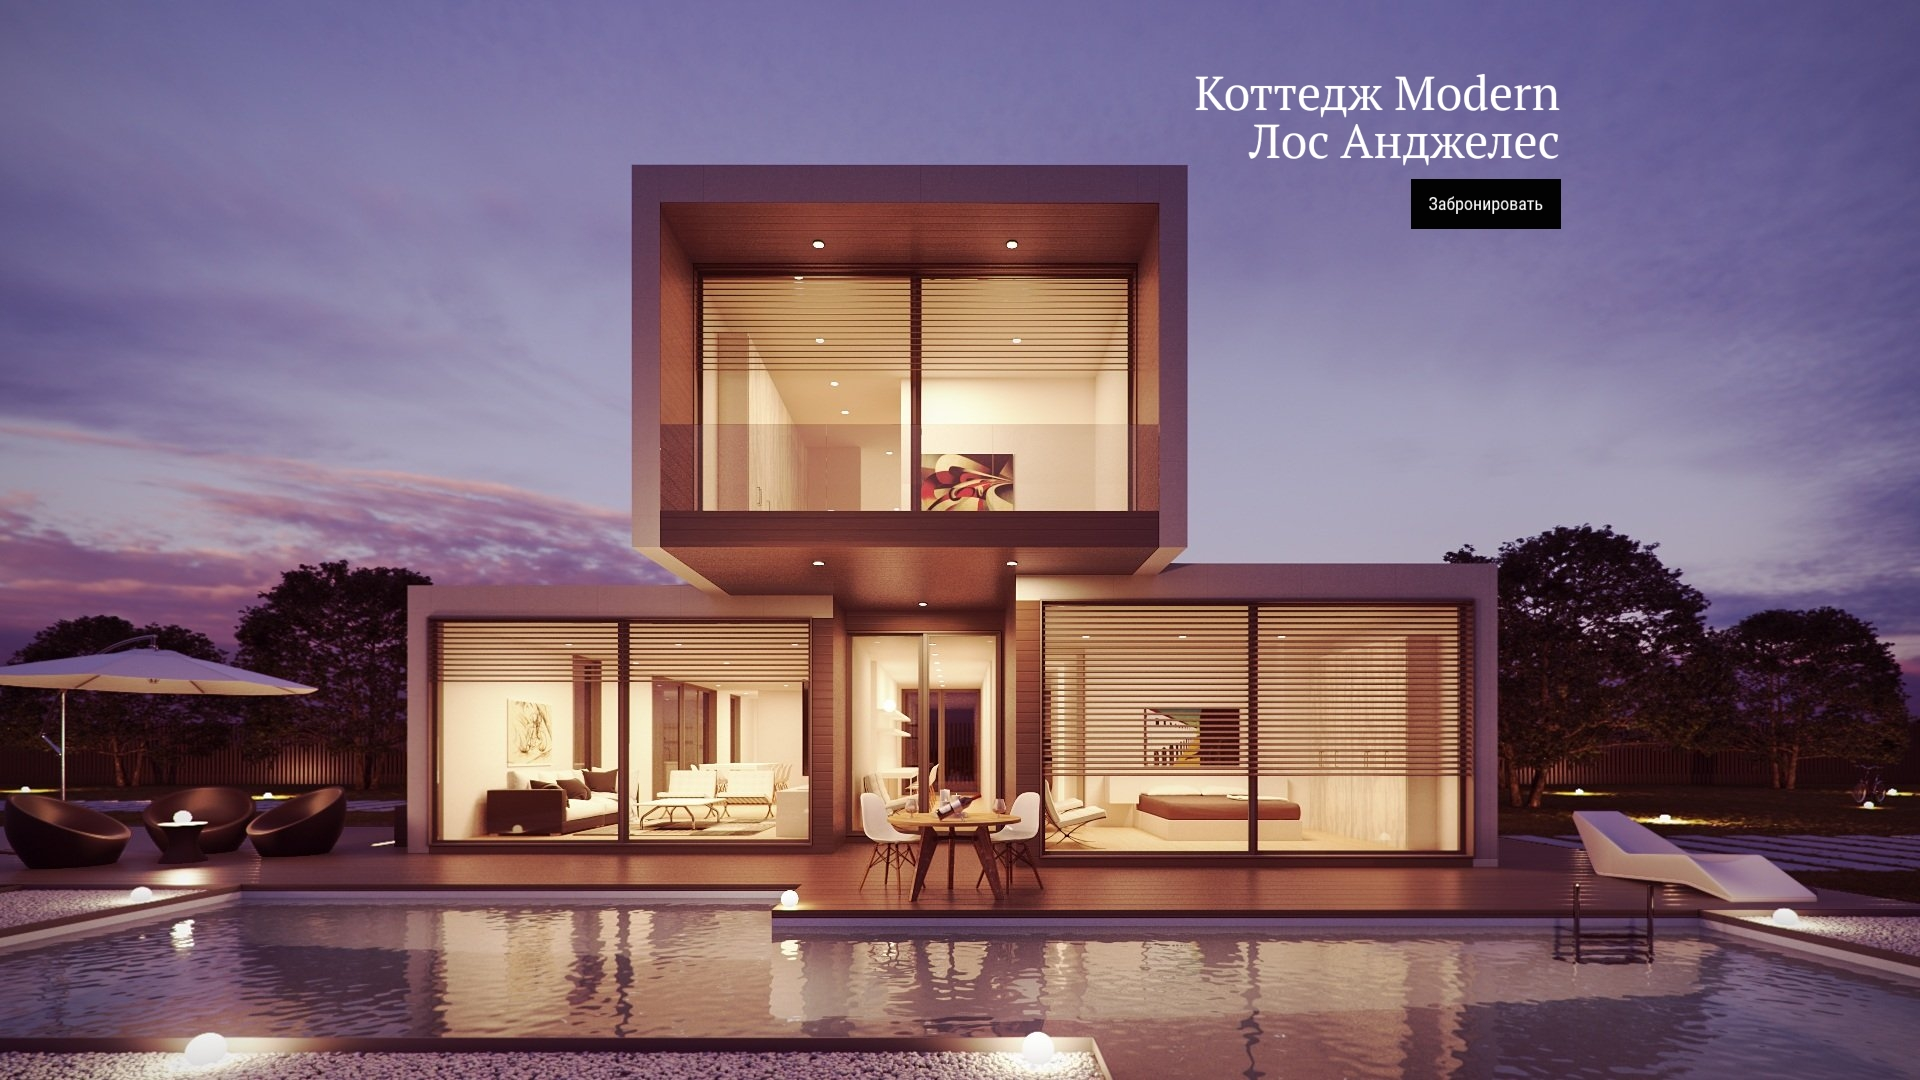
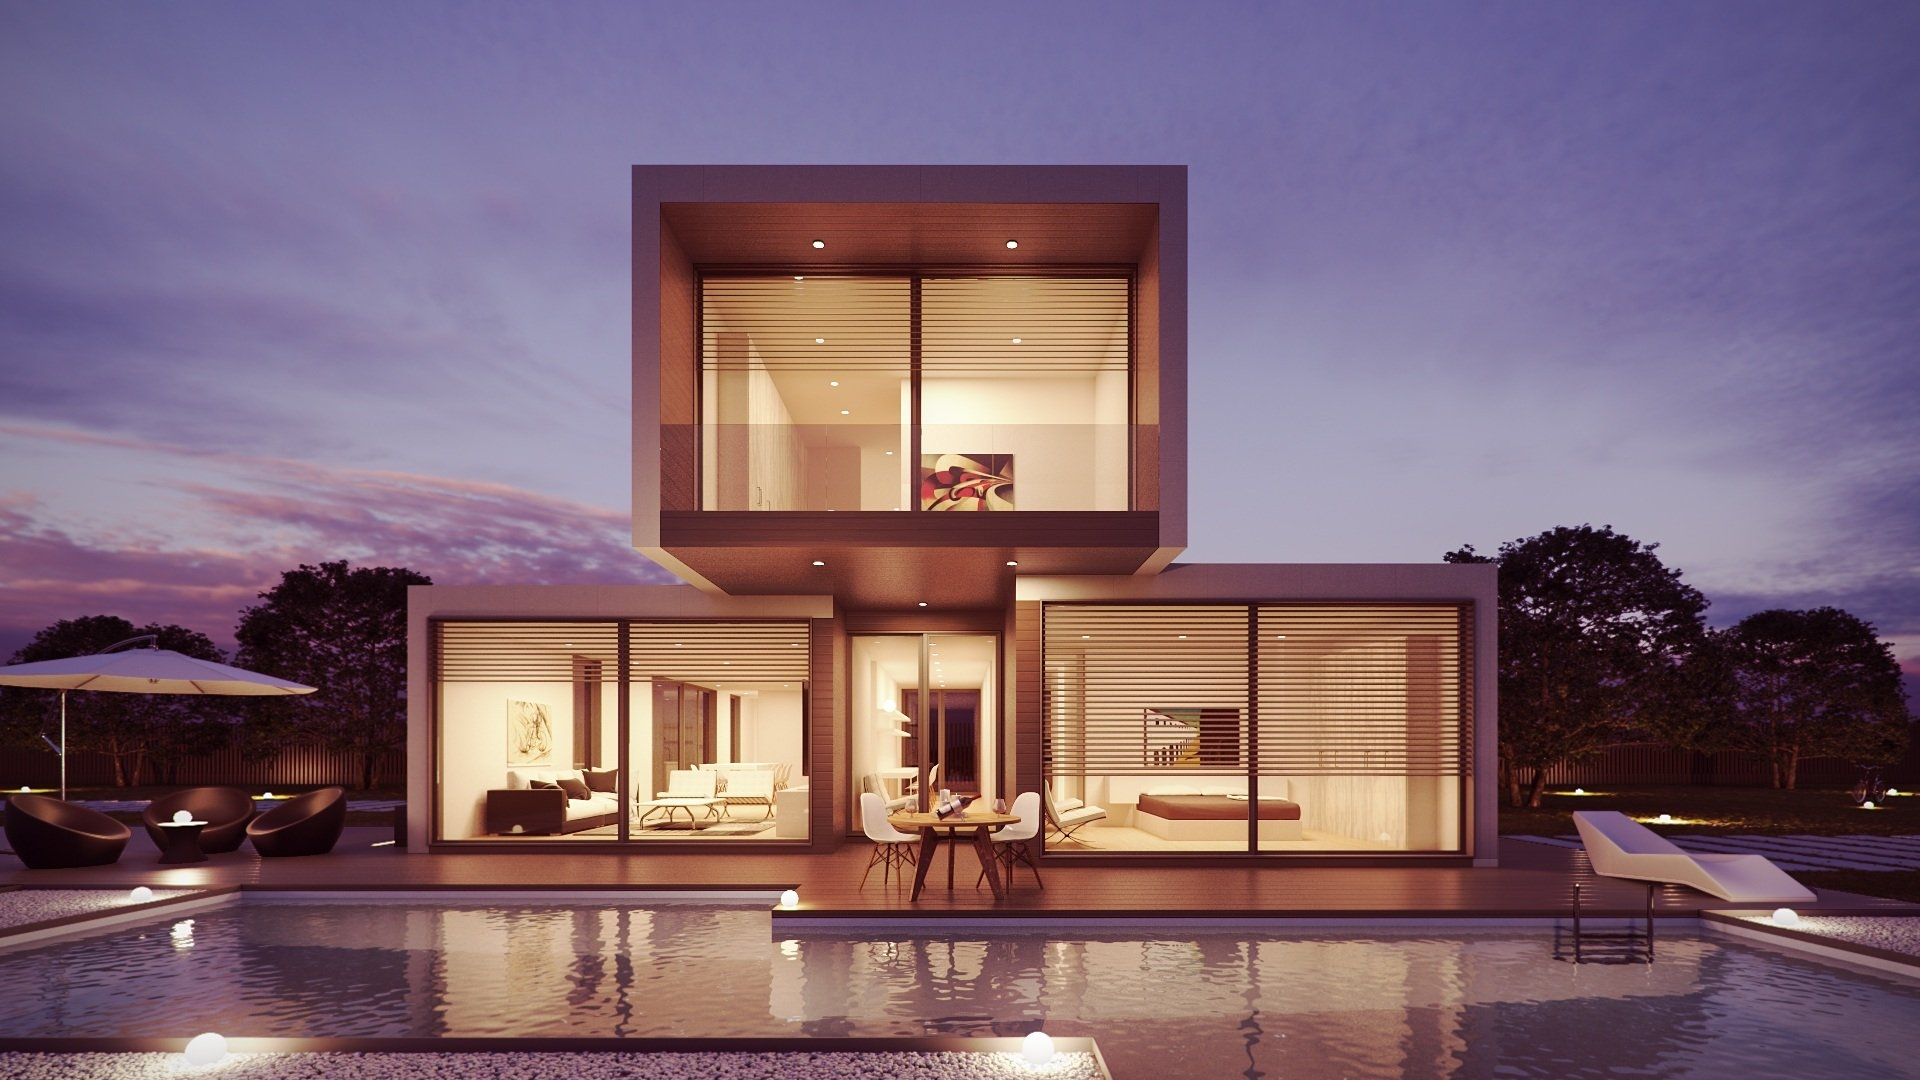
add contacts

Changed region(s): [[0.625, 0.0611, 0.8125, 0.2139]]

diff --git a/src/scss/parsed-classes.sass b/src/scss/parsed-classes.sass
@@ -29,10 +29,14 @@
 		// Стили для класса .about__item-img
 	&__item-title
 		// Стили для класса .about__item-title
+	&__item-link
+		// Стили для класса .about__item-link
 	&__content
 		// Стили для класса .about__content
 	&__time
 		// Стили для класса .about__time
+	&__time-box
+		// Стили для класса .about__time-box
 	&__time-title
 		// Стили для класса .about__time-title
 	&__time-text
@@ -41,6 +45,8 @@
 		// Стили для класса .about__time-link
 	&__globus
 		// Стили для класса .about__globus
+	&__globus-box
+		// Стили для класса .about__globus-box
 	&__globus-title
 		// Стили для класса .about__globus-title
 	&__globus-text
@@ -48,24 +54,65 @@
 	&__globus-link
 		// Стили для класса .about__globus-link
 
-.conteiner
-	// Стили для класса .conteiner
-
-.anout
-	&__item-link
-		// Стили для класса .anout__item-link
+.container
+	// Стили для класса .container
 
 .houses
 	// Стили для класса .houses
 
-.container
-	// Стили для класса .container
-
 .apartments
-	// Стили для класса .apartments
+	&__inner
+		// Стили для класса .apartments__inner
+	&__title
+		// Стили для класса .apartments__title
+	&__button
+		// Стили для класса .apartments__button
 
 .contacts
-	// Стили для класса .contacts
+	&__inner
+		// Стили для класса .contacts__inner
+	&__content
+		// Стили для класса .contacts__content
+	&__manager
+		// Стили для класса .contacts__manager
+	&__manager-title
+		// Стили для класса .contacts__manager-title
+	&__manager-items
+		// Стили для класса .contacts__manager-items
+	&__manager-item
+		// Стили для класса .contacts__manager-item
+	&__manager-img
+		// Стили для класса .contacts__manager-img
+	&__manager-name
+		// Стили для класса .contacts__manager-name
+	&__manager-link
+		// Стили для класса .contacts__manager-link
+	&__blog
+		// Стили для класса .contacts__blog
+	&__blog-title
+		// Стили для класса .contacts__blog-title
+	&__blog-items
+		// Стили для класса .contacts__blog-items
+	&__blog-item
+		// Стили для класса .contacts__blog-item
+	&__reviews
+		// Стили для класса .contacts__reviews
+	&__reviews-img
+		// Стили для класса .contacts__reviews-img
+	&__reviews-text
+		// Стили для класса .contacts__reviews-text
+	&__reviews-link
+		// Стили для класса .contacts__reviews-link
+	&__other
+		// Стили для класса .contacts__other
+	&__links
+		// Стили для класса .contacts__links
+	&__list
+		// Стили для класса .contacts__list
+	&__item
+		// Стили для класса .contacts__item
+	&__form
+		// Стили для класса .contacts__form
 
 .footer
 	// Стили для класса .footer

diff --git a/src/content/section/_contacts/_contacts.sass b/src/content/section/_contacts/_contacts.sass
@@ -1,2 +1,86 @@
 @use 'vars' as *
 
+.contacts
+	padding-top: 100px
+	background-color: $black
+	color: $white
+	&__inner
+		// Стили для класса .contacts__inner
+	&__content
+		display: flex
+		justify-content: space-between
+		gap: 100px
+		margin-bottom: 200px
+	&__manager
+		// Стили для класса .contacts__manager
+	&__manager-title, &__blog-title, &__reviews-title
+		@include ptserif-regular
+		font-size: 48px
+		line-height: 48px
+		text-align: center
+	&__manager-items
+		margin-top: 27px
+		display: flex
+		gap: 57px
+	&__manager-item
+		// Стили для класса .contacts__manager-item
+	&__manager-img
+		margin-bottom: 22px
+		img
+			border-radius: 50%
+	&__manager-name
+		@include robotocondensed-regular
+		font-size: 18px
+		line-height: 21px
+		margin-bottom: 43px
+		span
+			display: block
+	&__manager-link
+		@include robotocondensed-regular
+		font-size: 18px
+		line-height: 18px
+		background-color: $white
+		color: $black
+		padding: 16px 21px
+		cursor: pointer
+	&__blog
+		// Стили для класса .contacts__blog
+	&__blog-title
+		// Стили для класса .contacts__blog-title
+	&__blog-items
+		margin-top: 47px
+		width: 411px
+		@include robotocondensed-regular
+		font-size: 18px
+		line-height: 18px
+		text-align: left
+	&__blog-item
+		padding-left: 67px
+		margin-bottom: 28px
+		position: relative
+		&::before
+			content: ''
+			background-image: url('../img/arrow-white.svg')
+			width: 30px
+			height: 30px
+			position: absolute
+			top: -5px
+			left: 0
+	&__reviews
+		// Стили для класса .contacts__reviews
+	&__reviews-img
+		margin-top: 48px
+	&__reviews-text
+		// Стили для класса .contacts__reviews-text
+	&__reviews-link
+		// Стили для класса .contacts__reviews-link
+	&__other
+		// Стили для класса .contacts__other
+	&__links
+		// Стили для класса .contacts__links
+	&__list
+		// Стили для класса .contacts__list
+	&__item
+		// Стили для класса .contacts__item
+	&__form
+		// Стили для класса .contacts__form

diff --git a/src/content/section/_about/_about.sass b/src/content/section/_about/_about.sass
@@ -16,8 +16,6 @@
 		display: flex
 		justify-content: space-between
 		margin-bottom: 200px
-	&__item
-		// Стили для класса .about__item
 	&__item-img
 		margin-bottom: 30px
 	&__item-title
@@ -40,8 +38,6 @@
 		display: flex
 		justify-content: space-between
 		gap: 113px
-	&__time
-		// Стили для класса .about__time
 	&__time-box, &__globus-box
 		display: flex
 		gap: 33px
@@ -69,8 +65,3 @@
 			background-repeat: no-repeat
 			width: 30px
 			height: 30px
-
-	&__globus
-		// Стили для класса .about__globus
-	&__globus-link
-		// Стили для класса .about__globus-link

diff --git a/src/content/section/_apartments/_apartments.sass b/src/content/section/_apartments/_apartments.sass
@@ -1,2 +1,29 @@
 @use 'vars' as *
 
+.apartments
+	background-image: url('../img/apartments-bg.jpg')
+	background-size: cover
+	background-position: center
+	background-repeat: no-repeat
+	height: 100vh
+	border-bottom: 1px solid $white
+	&__inner
+		display: flex
+		align-items: flex-end
+		flex-direction: column
+		text-align: right
+	&__title
+		padding-top: 68px
+		@include ptserif-regular
+		font-size: 48px
+		line-height: 48px
+		color: $white
+		span
+			display: block
+			margin-bottom: 15px
+	&__button
+		cursor: pointer
+		background-color: $black
+		color: $white
+		max-width: 150px
+		padding: 16px 17px
